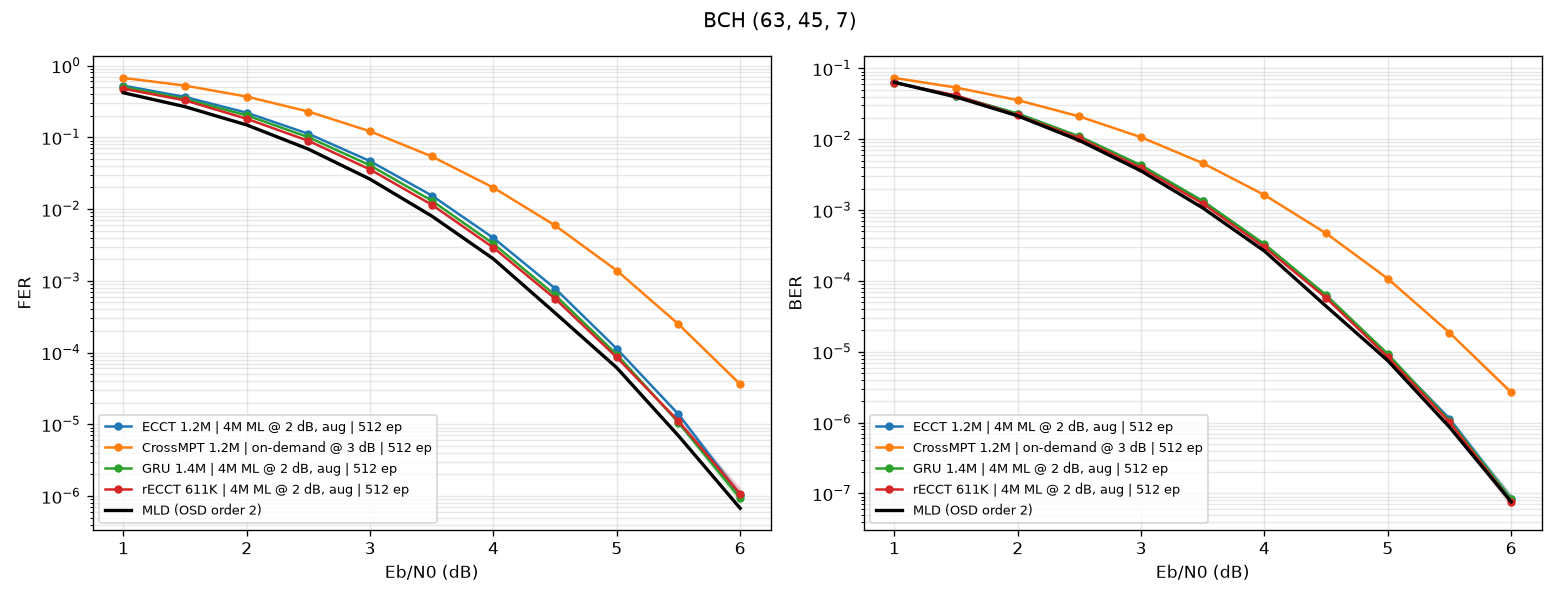
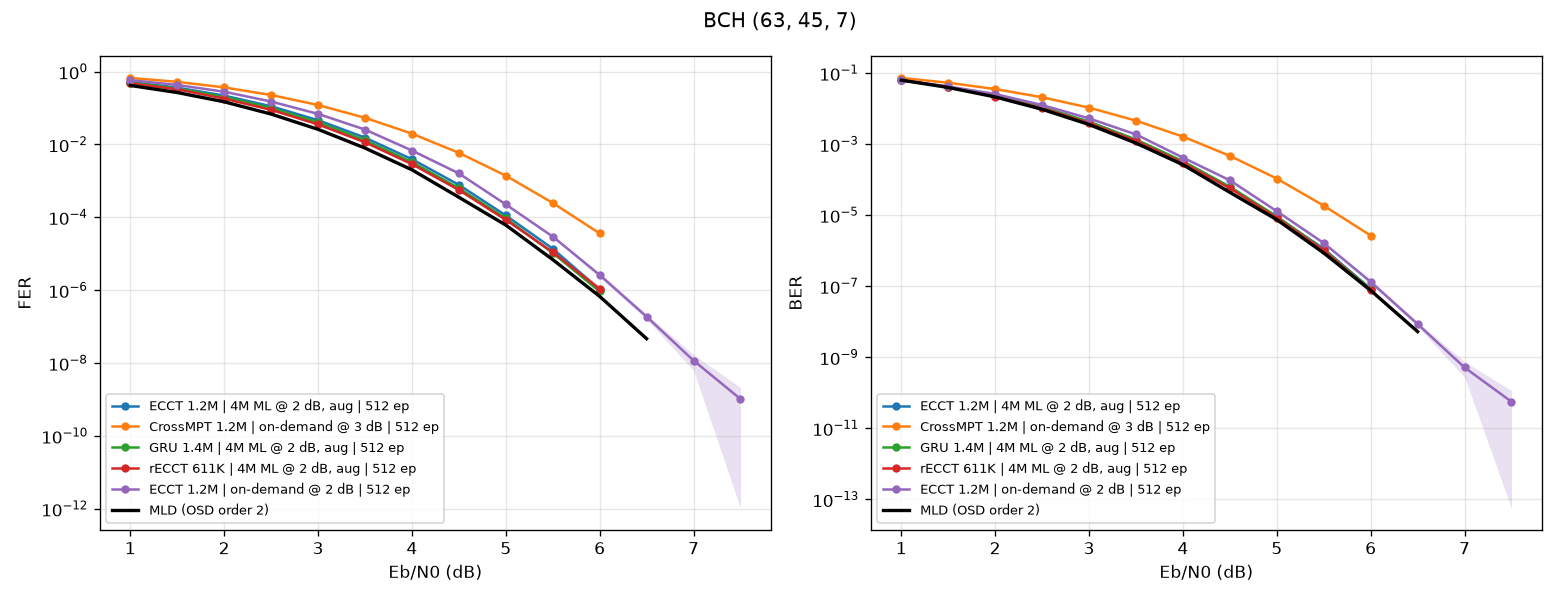
plot_experiments: show the 512-epoch on-demand ECCT on (63,45) down to 7.5 dB
ALSO_PLOT draws an eval log even when it is not the best of its model, cut at
a given Eb/N0. It holds the 512-epoch on-demand ECCT on (63,45), whose
stratified eval shows no error floor down to FER 1e-9 (7.5 dB). Only the
(63,45) figure changes; experiments.md notes the exception.

Claude-Session: https://claude.ai/code/session_01RP3ZfdFHdqYPnEwCiWF3m4

diff --git a/scripts/plot_experiments.py b/scripts/plot_experiments.py
@@ -18,6 +18,8 @@ import numpy as np
 ROOT = Path(__file__).resolve().parents[1]
 DOC = ROOT / "docs" / "experiments.md"
 OUT = ROOT / "docs" / "figs"
+# Eval logs drawn even when not the best of their model, cut at the given Eb/N0 (dB).
+ALSO_PLOT = {"ecct-bch-63-45-on-demand-2dB-512epochs-ancient-deluge-2226-bf16.csv": 7.5}
 
 # MLD reference curves: (label, Eb/N0 dB, FER, info BER).
 # From sdd-julia OSD runs (>= 100 frame errors per point) unless noted.
@@ -181,6 +183,14 @@ def best_per_model(rows):
             *(set(r["curve"]["snr"][: r["curve"]["n_mc"]]) for r in runs)
         )
         best.append(min(runs, key=lambda r: score(r["curve"], list(shared))))
+    for r in rows:
+        snr_max = ALSO_PLOT.get(Path(r["log"]).name)
+        if snr_max and r not in best:
+            keep = r["curve"]["snr"] <= snr_max
+            r["curve"].update(
+                {k: v[keep] for k, v in r["curve"].items() if k != "n_mc"}
+            )
+            best.append(r)
     return best
 
 

diff --git a/docs/experiments.md b/docs/experiments.md
@@ -28,7 +28,7 @@ Conventions:
 - The **Decoder** column links to the experiment config file. The **Size** column gives the number of trainable parameters. The **Eval log** column links to the CSV with `sbnd-test` results; *epochs* is the number of training epochs of the evaluated checkpoint.
 - The **Training data** column summarizes the training-time data pipeline: `on-demand at X dB` for samples generated on the fly at a fixed Eb/N₀, or `<size> ML samples at X dB` for a pre-computed ML-error-pattern dataset (see [`docs/training.md`](training.md#training-data)). The mention `with augmentation` indicates that code-automorphism data augmentation is enabled.
 - Test-time scaling (TTS) variants of an eval log are listed alongside the base log when available — see [Test-time scaling](evaluation.md#3-test-time-scaling).
-- Each code section opens with a FER / BER vs Eb/N₀ figure: the best eval log of each model (decoder and size; best = lowest mean log-FER over the Eb/N₀ points its logs share), with 95 % confidence bands, and the maximum-likelihood decoding (MLD) curve when available. Points past the plain Monte-Carlo range come from the stratified eval. TTS and HDD variants are not plotted. Regenerate all figures with `python scripts/plot_experiments.py` after editing a table.
+- Each code section opens with a FER / BER vs Eb/N₀ figure: the best eval log of each model (decoder and size; best = lowest mean log-FER over the Eb/N₀ points its logs share), with 95 % confidence bands, and the maximum-likelihood decoding (MLD) curve when available. Points past the plain Monte-Carlo range come from the stratified eval. TTS and HDD variants are not plotted. Exception: the (63, 45) figure also shows the 512-epoch on-demand ECCT, whose stratified eval shows no error floor down to a FER of 1e-9 (7.5 dB). Regenerate all figures with `python scripts/plot_experiments.py` after editing a table.
 
 ## BCH (31, 21, 5)
 
